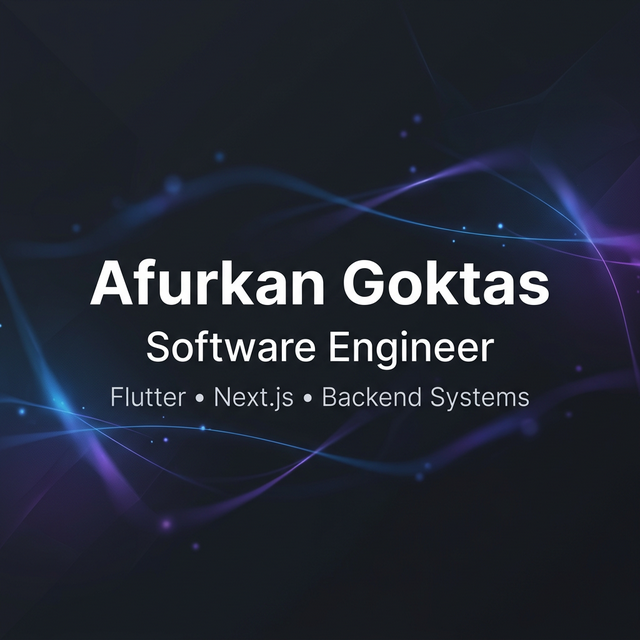
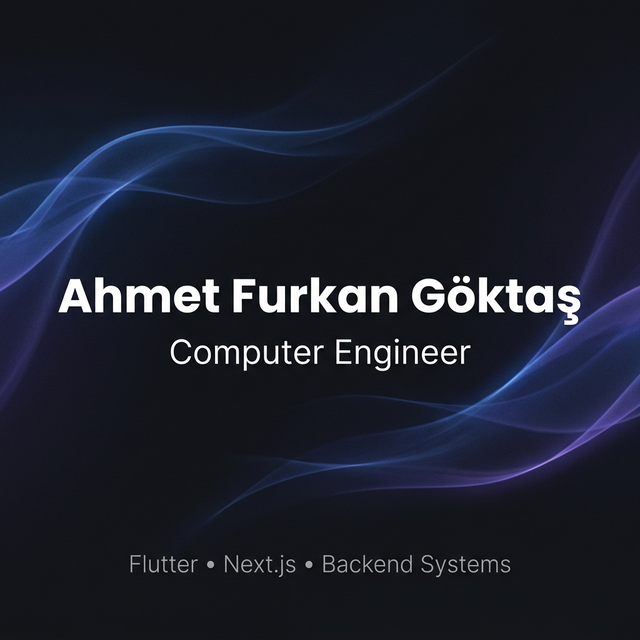
Add dynamic Open Graph and Twitter images

diff --git a/src/app/opengraph-image.tsx b/src/app/opengraph-image.tsx
@@ -1,0 +1,90 @@
+import { ImageResponse } from "next/og";
+
+export const runtime = "edge";
+export const size = { width: 1200, height: 630 };
+export const contentType = "image/png";
+
+export default function OpenGraphImage() {
+    return new ImageResponse(
+        (
+            <div
+                style={{
+                    width: "100%",
+                    height: "100%",
+                    display: "flex",
+                    position: "relative",
+                    backgroundColor: "#000",
+                    color: "#fff",
+                    padding: "72px",
+                    flexDirection: "column",
+                    justifyContent: "center",
+                    overflow: "hidden",
+                }}
+            >
+                {/* Subtle glow */}
+                <div
+                    style={{
+                        position: "absolute",
+                        inset: -200,
+                        background:
+                            "radial-gradient(circle at 30% 40%, rgba(59,130,246,0.35), transparent 55%), radial-gradient(circle at 70% 60%, rgba(168,85,247,0.30), transparent 55%)",
+                        filter: "blur(0px)",
+                        opacity: 1,
+                    }}
+                />
+
+                {/* Noise-like overlay (very subtle) */}
+                <div
+                    style={{
+                        position: "absolute",
+                        inset: 0,
+                        background:
+                            "linear-gradient(180deg, rgba(255,255,255,0.04), rgba(255,255,255,0))",
+                        opacity: 0.7,
+                    }}
+                />
+
+                {/* Content */}
+                <div style={{ position: "relative", display: "flex", flexDirection: "column", gap: 18 }}>
+                    <div style={{ fontSize: 24, opacity: 0.85, letterSpacing: 2 }}>
+                        AFG
+                    </div>
+
+                    <div style={{ fontSize: 78, fontWeight: 800, lineHeight: 1.05 }}>
+                        Ahmet Furkan Göktaş
+                    </div>
+
+                    <div style={{ fontSize: 34, opacity: 0.85 }}>
+                        Computer Engineer
+                    </div>
+
+                    <div
+                        style={{
+                            marginTop: 18,
+                            fontSize: 22,
+                            opacity: 0.75,
+                        }}
+                    >
+                        Flutter • Next.js • Backend Systems
+                    </div>
+
+                    {/* Bottom line */}
+                    <div
+                        style={{
+                            marginTop: 44,
+                            display: "flex",
+                            gap: 10,
+                            fontSize: 18,
+                            opacity: 0.65,
+                        }}
+                    >
+                        <span>afurkangoktas.com</span>
+                        <span>•</span>
+                        <span>Projects • Articles • Contact</span>
+                    </div>
+                </div>
+            </div>
+        ),
+        size
+    );
+}

diff --git a/src/app/twitter-image.tsx b/src/app/twitter-image.tsx
@@ -1,0 +1,48 @@
+import { ImageResponse } from "next/og";
+
+export const runtime = "edge";
+export const size = { width: 1200, height: 600 };
+export const contentType = "image/png";
+
+export default function TwitterImage() {
+    return new ImageResponse(
+        (
+            <div
+                style={{
+                    width: "100%",
+                    height: "100%",
+                    display: "flex",
+                    position: "relative",
+                    backgroundColor: "#000",
+                    color: "#fff",
+                    padding: "64px",
+                    flexDirection: "column",
+                    justifyContent: "center",
+                    overflow: "hidden",
+                }}
+            >
+                <div
+                    style={{
+                        position: "absolute",
+                        inset: -200,
+                        background:
+                            "radial-gradient(circle at 25% 45%, rgba(59,130,246,0.35), transparent 55%), radial-gradient(circle at 75% 55%, rgba(168,85,247,0.30), transparent 55%)",
+                        opacity: 1,
+                    }}
+                />
+
+                <div style={{ position: "relative", display: "flex", flexDirection: "column", gap: 14 }}>
+                    <div style={{ fontSize: 22, opacity: 0.85, letterSpacing: 2 }}>AFG</div>
+                    <div style={{ fontSize: 72, fontWeight: 800, lineHeight: 1.05 }}>
+                        Ahmet Furkan Göktaş
+                    </div>
+                    <div style={{ fontSize: 30, opacity: 0.85 }}>Computer Engineer</div>
+                    <div style={{ marginTop: 16, fontSize: 20, opacity: 0.75 }}>
+                        Flutter • Next.js • Backend Systems
+                    </div>
+                </div>
+            </div>
+        ),
+        size
+    );
+}
